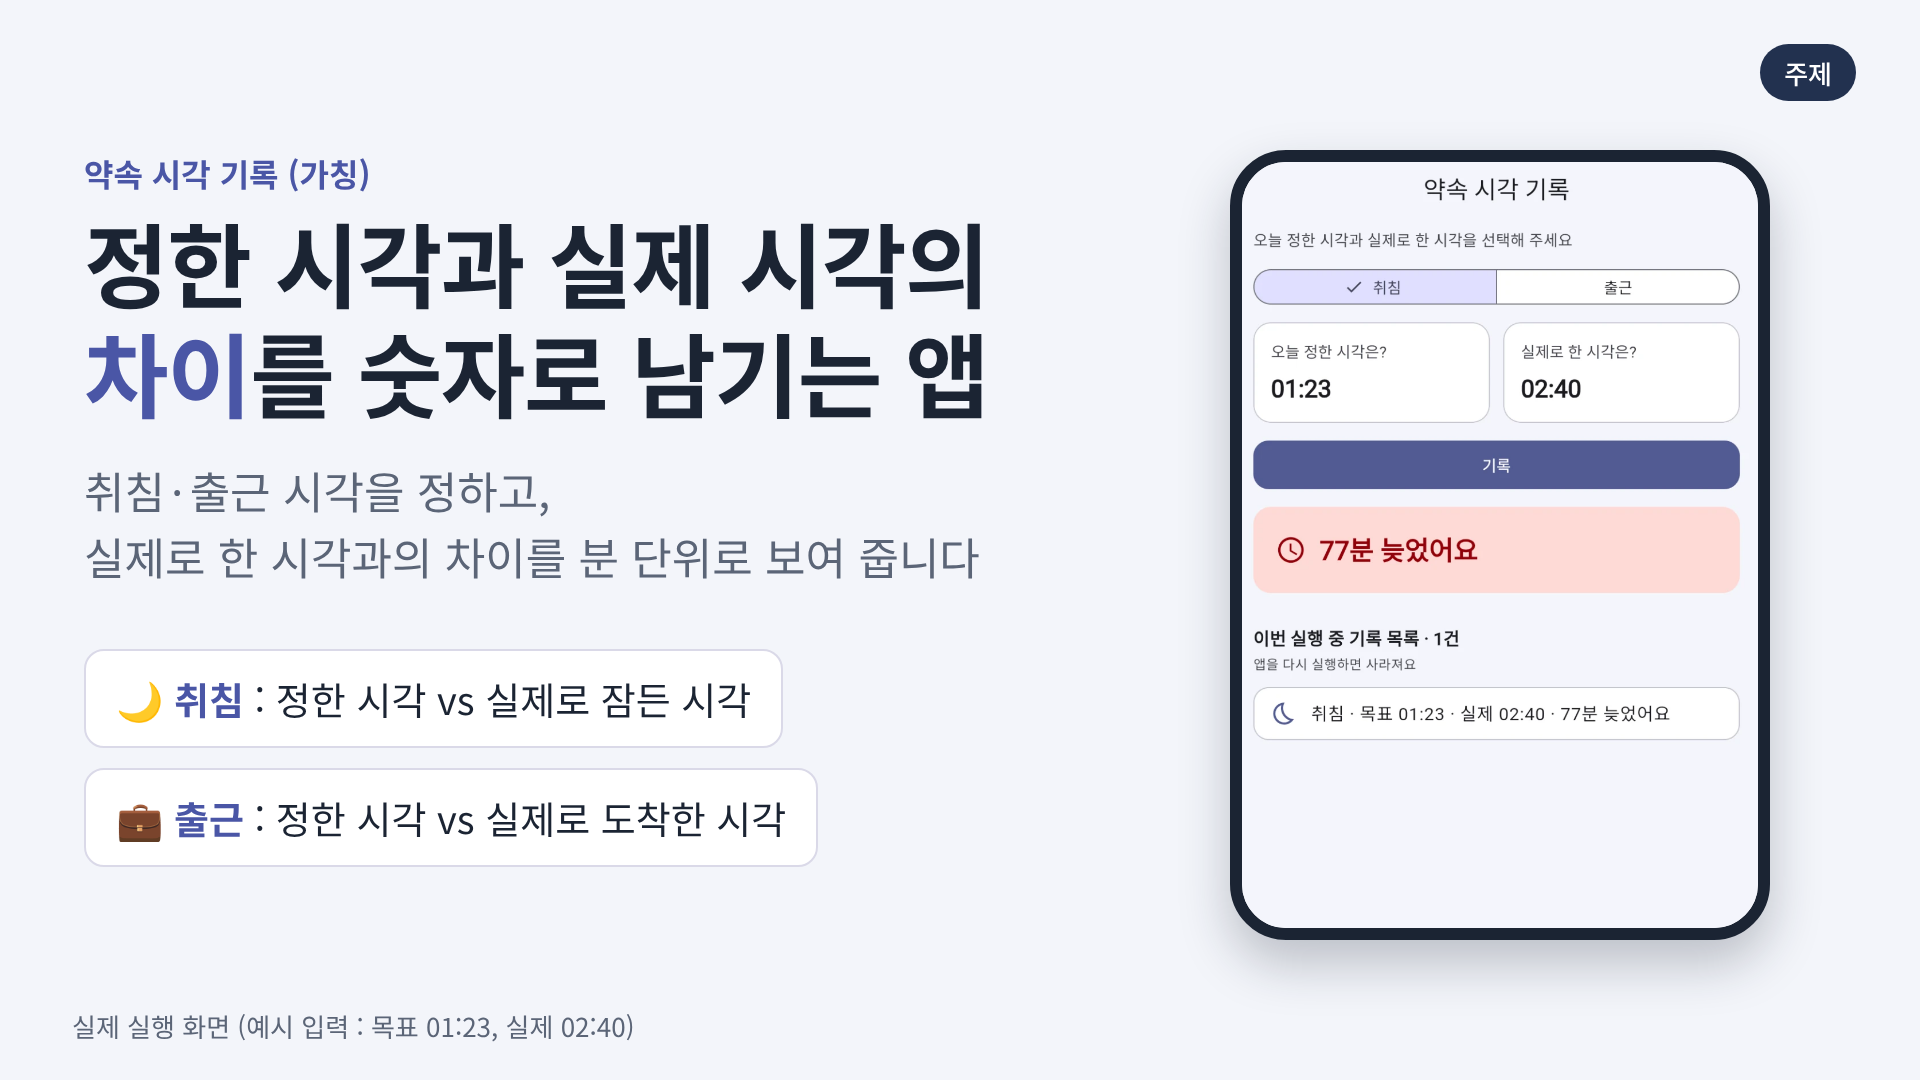
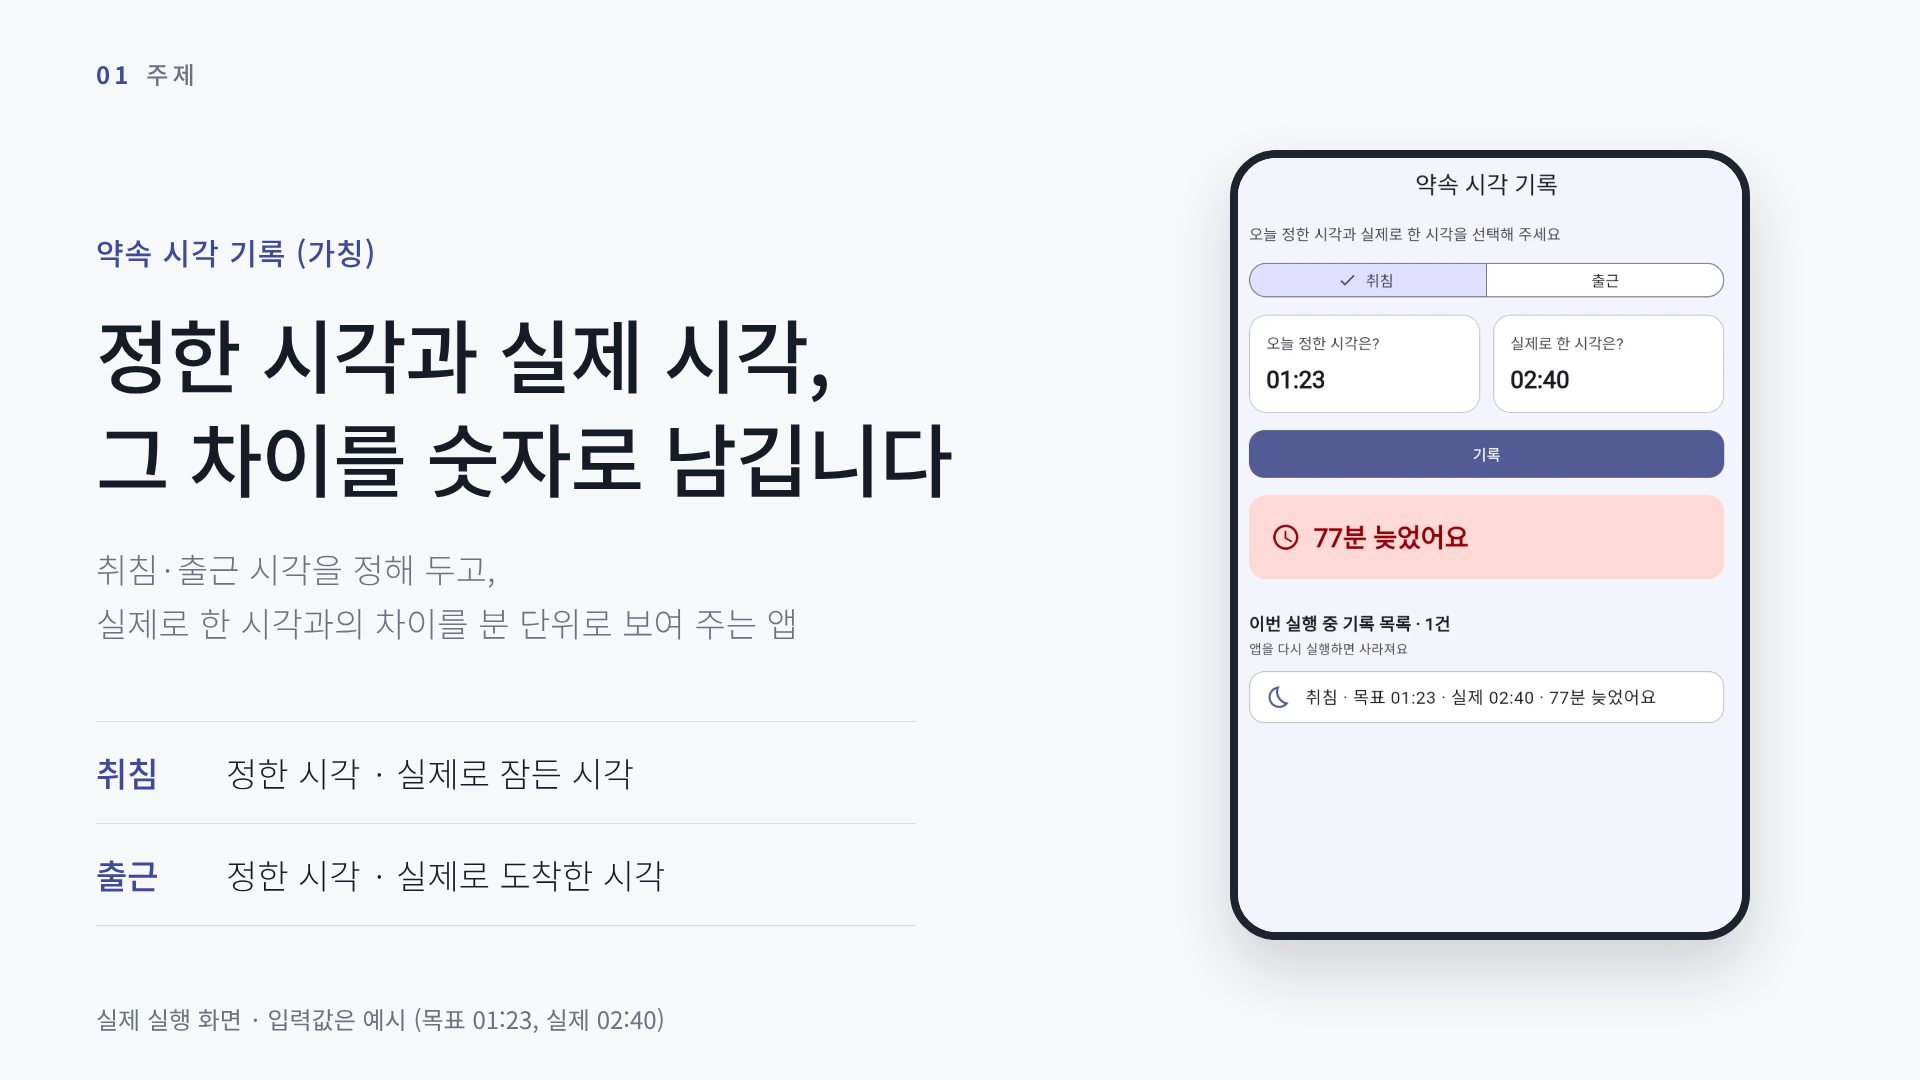
docs: 중간발표 장표 디자인을 차분하게 수정
Claude-Session: https://claude.ai/code/session_01P1GBHLbgts9XqSkhaJYGHU

diff --git a/promise_time/docs/presentation/slide2.html b/promise_time/docs/presentation/slide2.html
@@ -1,32 +1,24 @@
-<!doctype html><html lang=ko><head><meta charset=utf-8><link rel=stylesheet href="file:///tmp/claude-0/-home-user-claude/07db6671-1695-5be9-8ff8-4806634fec40/scratchpad/slides/../fonts/package/400.css"><link rel=stylesheet href="file:///tmp/claude-0/-home-user-claude/07db6671-1695-5be9-8ff8-4806634fec40/scratchpad/slides/../fonts/package/500.css"><link rel=stylesheet href="file:///tmp/claude-0/-home-user-claude/07db6671-1695-5be9-8ff8-4806634fec40/scratchpad/slides/../fonts/package/700.css"><link rel=stylesheet href=common.css><style>
-.wrap{padding:70px 84px 0}
-h1{font-size:80px;line-height:1.25}h1 em{font-style:normal;color:var(--late)}
-.row{display:flex;gap:56px;margin-top:36px}
-.card{flex:1;background:#fff;border:2px solid var(--line);border-radius:32px;padding:44px 52px}
-.card .k{font-size:30px;color:var(--sub)}
-.card h2{font-size:54px;margin:8px 0 34px}
-.line{display:flex;align-items:center;gap:24px;font-size:44px;margin-bottom:22px}
-.lab{width:150px;color:var(--sub);font-size:32px}
-.t{background:#EEF1F8;border-radius:16px;padding:12px 28px;font-weight:700}
-.t.bad{background:var(--lateBg);color:var(--late)}
-.gap{font-size:40px;color:var(--late);font-weight:700;margin-top:10px}
-.bar{margin-top:40px;background:var(--navy);color:#fff;border-radius:24px;padding:22px 40px;font-size:46px;font-weight:700;text-align:center}
-.bar b{color:#FFB59E}
+<!doctype html><html lang=ko><head><meta charset=utf-8><link rel=stylesheet href="file:///tmp/claude-0/-home-user-claude/07db6671-1695-5be9-8ff8-4806634fec40/scratchpad/slides/../fonts/package/300.css"><link rel=stylesheet href="file:///tmp/claude-0/-home-user-claude/07db6671-1695-5be9-8ff8-4806634fec40/scratchpad/slides/../fonts/package/400.css"><link rel=stylesheet href="file:///tmp/claude-0/-home-user-claude/07db6671-1695-5be9-8ff8-4806634fec40/scratchpad/slides/../fonts/package/500.css"><link rel=stylesheet href="file:///tmp/claude-0/-home-user-claude/07db6671-1695-5be9-8ff8-4806634fec40/scratchpad/slides/../fonts/package/700.css"><link rel=stylesheet href=common.css><style>
+h1{position:absolute;left:96px;top:130px;font-size:68px}
+.cols{position:absolute;left:96px;right:96px;top:380px;display:flex}
+.c{flex:1;padding-right:70px}
+.c+.c{padding-left:90px;padding-right:0;border-left:1px solid var(--line)}
+.k{font-size:26px;letter-spacing:3px;color:var(--sub);font-weight:500}
+.n{font-size:150px;font-weight:300;letter-spacing:-6px;line-height:1.1;margin-top:16px}
+.n small{font-size:60px;letter-spacing:0;margin-left:8px;color:var(--sub)}
+.d{font-size:38px;font-weight:500;margin-top:10px}
+.e{font-size:30px;color:var(--sub);margin-top:14px;font-weight:300;line-height:1.5}
+.conc{position:absolute;left:96px;right:96px;bottom:130px;border-top:1px solid var(--line);padding-top:34px;font-size:40px;font-weight:500}
+.conc em{font-style:normal;color:var(--red)}
 </style></head><body>
-<div class=tag>문제</div>
-<div class=wrap>
- <h1>알람은 있는데,<br>얼마나 <em>어긋나는지</em>는 모릅니다</h1>
- <div class=row>
-  <div class=card><div class=k>상황 ① 밤</div><h2>🌙 늦게 잡니다</h2>
-   <div class=line><span class=lab>하루 끝</span><span class=t>보상심리로 폰을 계속 봄</span></div>
-   <div class=line><span class=lab>실제</span><span class="t bad">2~3시 넘어서 취침</span></div>
-   <div class=gap>→ 목표 수면 7~8시간이 줄어듭니다</div></div>
-  <div class=card><div class=k>상황 ② 주말 알바</div><h2>💼 매번 조금씩 늦습니다</h2>
-   <div class=line><span class=lab>목표</span><span class=t>17:00 출근</span></div>
-   <div class=line><span class=lab>실제</span><span class="t bad">2~3분 지각이 습관</span></div>
-   <div class=gap>→ 16:25 알람이 있어도 반복됩니다</div></div>
- </div>
- <div class=bar>기록이 없어서, 느낌으로만 알고 <b>숫자로는 모릅니다</b></div>
+<div class=sec><b>02</b>문제</div>
+<h1>알람은 있지만,<br>얼마나 어긋나는지는 남지 않습니다</h1>
+<div class=cols>
+ <div class=c><div class=k>밤 · 취침</div><div class=n>2~3<small>시</small></div>
+  <div class=d>넘어서 자는 날이 많습니다</div><div class=e>하루를 끝낸 보상심리로 폰을 계속 보게 됩니다</div></div>
+ <div class=c><div class=k>주말 알바 · 출근 17:00</div><div class=n>2~3<small>분</small></div>
+  <div class=d>지각이 습관이 되었습니다</div><div class=e>16:25 기상 알람을 맞춰도 반복됩니다</div></div>
 </div>
-<div class=foot>근거: 본인 경험 (다른 사용자 조사는 하지 않음)</div>
+<div class=conc>기록이 없어서 <em>느낌으로만</em> 알 수 있었습니다</div>
+<div class=foot>근거: 본인 경험 · 다른 사용자 조사는 하지 않음</div>
 </body></html>

diff --git a/promise_time/docs/presentation/slide1.html b/promise_time/docs/presentation/slide1.html
@@ -1,23 +1,25 @@
-<!doctype html><html lang=ko><head><meta charset=utf-8><link rel=stylesheet href="file:///tmp/claude-0/-home-user-claude/07db6671-1695-5be9-8ff8-4806634fec40/scratchpad/slides/../fonts/package/400.css"><link rel=stylesheet href="file:///tmp/claude-0/-home-user-claude/07db6671-1695-5be9-8ff8-4806634fec40/scratchpad/slides/../fonts/package/500.css"><link rel=stylesheet href="file:///tmp/claude-0/-home-user-claude/07db6671-1695-5be9-8ff8-4806634fec40/scratchpad/slides/../fonts/package/700.css"><link rel=stylesheet href=common.css><style>
-.l{position:absolute;left:84px;top:150px;width:1000px}
-h1{font-size:92px;line-height:1.2}h1 em{font-style:normal;color:var(--indigo)}
-.sub{font-size:44px;color:var(--sub);margin-top:30px;line-height:1.5}
-.chips{margin-top:60px;display:flex;flex-direction:column;gap:20px}
-.chip{background:#fff;border:2px solid var(--line);border-radius:20px;padding:20px 30px;font-size:38px;width:fit-content}
-.chip b{color:var(--indigo)}
-.r{position:absolute;right:150px;top:70px;width:520px}
-.shot{position:absolute;right:150px;top:70px;width:540px}
-.phone{height:790px}.shot{top:150px}</style></head><body>
-<div class=tag>주제</div>
+<!doctype html><html lang=ko><head><meta charset=utf-8><link rel=stylesheet href="file:///tmp/claude-0/-home-user-claude/07db6671-1695-5be9-8ff8-4806634fec40/scratchpad/slides/../fonts/package/300.css"><link rel=stylesheet href="file:///tmp/claude-0/-home-user-claude/07db6671-1695-5be9-8ff8-4806634fec40/scratchpad/slides/../fonts/package/400.css"><link rel=stylesheet href="file:///tmp/claude-0/-home-user-claude/07db6671-1695-5be9-8ff8-4806634fec40/scratchpad/slides/../fonts/package/500.css"><link rel=stylesheet href="file:///tmp/claude-0/-home-user-claude/07db6671-1695-5be9-8ff8-4806634fec40/scratchpad/slides/../fonts/package/700.css"><link rel=stylesheet href=common.css><style>
+.l{position:absolute;left:96px;top:230px;width:1000px}
+.name{font-size:30px;color:var(--accent);font-weight:500;letter-spacing:1px}
+h1{font-size:80px;margin-top:26px}
+.sub{font-size:34px;color:var(--sub);margin-top:34px;line-height:1.6;font-weight:300}
+.list{margin-top:70px;width:820px;border-top:1px solid var(--line)}
+.it{display:flex;padding:26px 0;border-bottom:1px solid var(--line);font-size:34px;align-items:baseline}
+.it b{width:130px;font-weight:500;color:var(--accent)}
+.it span{color:var(--ink);font-weight:300}
+.shot{position:absolute;right:170px;top:150px;width:520px}
+.phone{height:790px}
+</style></head><body>
+<div class=sec><b>01</b>주제</div>
 <div class=l>
- <div class=brand>약속 시각 기록 (가칭)</div>
- <h1>정한 시각과 실제 시각의<br><em>차이</em>를 숫자로 남기는 앱</h1>
- <div class=sub>취침·출근 시각을 정하고,<br>실제로 한 시각과의 차이를 분 단위로 보여 줍니다</div>
- <div class=chips>
-  <div class=chip>🌙 <b>취침</b> : 정한 시각 vs 실제로 잠든 시각</div>
-  <div class=chip>💼 <b>출근</b> : 정한 시각 vs 실제로 도착한 시각</div>
+ <div class=name>약속 시각 기록 (가칭)</div>
+ <h1>정한 시각과 실제 시각,<br>그 차이를 숫자로 남깁니다</h1>
+ <div class=sub>취침·출근 시각을 정해 두고,<br>실제로 한 시각과의 차이를 분 단위로 보여 주는 앱</div>
+ <div class=list>
+  <div class=it><b>취침</b><span>정한 시각  ·  실제로 잠든 시각</span></div>
+  <div class=it><b>출근</b><span>정한 시각  ·  실제로 도착한 시각</span></div>
  </div>
 </div>
 <div class=shot><div class=phone><img src=crops/result.png></div></div>
-<div class=foot>실제 실행 화면 (예시 입력 : 목표 01:23, 실제 02:40)</div>
+<div class=foot>실제 실행 화면 · 입력값은 예시 (목표 01:23, 실제 02:40)</div>
 </body></html>

diff --git a/promise_time/docs/presentation/slide3.html b/promise_time/docs/presentation/slide3.html
@@ -1,16 +1,19 @@
-<!doctype html><html lang=ko><head><meta charset=utf-8><link rel=stylesheet href="file:///tmp/claude-0/-home-user-claude/07db6671-1695-5be9-8ff8-4806634fec40/scratchpad/slides/../fonts/package/400.css"><link rel=stylesheet href="file:///tmp/claude-0/-home-user-claude/07db6671-1695-5be9-8ff8-4806634fec40/scratchpad/slides/../fonts/package/500.css"><link rel=stylesheet href="file:///tmp/claude-0/-home-user-claude/07db6671-1695-5be9-8ff8-4806634fec40/scratchpad/slides/../fonts/package/700.css"><link rel=stylesheet href=common.css><style>
-.top{position:absolute;top:40px;left:84px;font-size:64px;font-weight:700;letter-spacing:-1px}
-.top em{font-style:normal;color:var(--indigo)}
-.cols{position:absolute;top:150px;left:0;right:0;display:flex;justify-content:center;gap:90px}
-.col{width:470px}.cols{top:140px}
-.arrow{align-self:center;font-size:64px;color:var(--indigo);margin-top:260px}
+<!doctype html><html lang=ko><head><meta charset=utf-8><link rel=stylesheet href="file:///tmp/claude-0/-home-user-claude/07db6671-1695-5be9-8ff8-4806634fec40/scratchpad/slides/../fonts/package/300.css"><link rel=stylesheet href="file:///tmp/claude-0/-home-user-claude/07db6671-1695-5be9-8ff8-4806634fec40/scratchpad/slides/../fonts/package/400.css"><link rel=stylesheet href="file:///tmp/claude-0/-home-user-claude/07db6671-1695-5be9-8ff8-4806634fec40/scratchpad/slides/../fonts/package/500.css"><link rel=stylesheet href="file:///tmp/claude-0/-home-user-claude/07db6671-1695-5be9-8ff8-4806634fec40/scratchpad/slides/../fonts/package/700.css"><link rel=stylesheet href=common.css><style>
+h1{position:absolute;left:96px;top:104px;font-size:54px;white-space:nowrap}
+h1 em{font-style:normal;color:var(--accent)}
+.cols{position:absolute;top:215px;left:0;right:0;display:flex;justify-content:center;gap:100px}
+.col{width:460px}
+.cap{display:flex;align-items:baseline;gap:14px;margin-bottom:18px;height:44px}
+.cap b{font-size:26px;color:var(--accent);font-weight:500;letter-spacing:2px}
+.cap span{font-size:34px;font-weight:500}
+.cap small{font-size:24px;color:var(--sub);font-weight:300;margin-left:6px}
 </style></head><body>
-<div class=tag>핵심가치</div>
-<div class=top>느낌이 아니라 <em>숫자</em>로 확인하고, 기록으로 쌓입니다</div>
+<div class=sec><b>03</b>핵심가치</div>
+<h1>느낌이 아니라 <em>숫자</em>로 확인하고, 기록으로 남깁니다</h1>
 <div class=cols>
- <div class=col><div class=cap>① 시각 두 개 선택<small>정한 시각 · 실제 시각</small></div><div class=phone><img src=crops/first.png></div></div>
- <div class=col><div class=cap>② 차이를 바로 확인<small>"77분 늦었어요"</small></div><div class=phone><img src=crops/result.png></div></div>
- <div class=col><div class=cap>③ 기록이 쌓임<small>최신 기록이 위, 한 줄 요약</small></div><div class=phone><img src=crops/list.png></div></div>
+ <div class=col><div class=cap><b>01</b><span>시각 두 개 선택</span></div><div class=phone><img src=crops/first.png></div></div>
+ <div class=col><div class=cap><b>02</b><span>차이를 바로 확인</span></div><div class=phone><img src=crops/result.png></div></div>
+ <div class=col><div class=cap><b>03</b><span>기록이 쌓임</span></div><div class=phone><img src=crops/list.png></div></div>
 </div>
-<div class=foot>실제 실행 화면 (예시 입력) · 현재는 앱을 다시 실행하면 기록이 사라집니다</div>
+<div class=foot>실제 실행 화면 · 입력값은 예시 · 현재는 앱을 다시 실행하면 기록이 사라집니다</div>
 </body></html>

diff --git a/promise_time/docs/presentation/common.css b/promise_time/docs/presentation/common.css
@@ -1,11 +1,9 @@
-:root{--bg:#F3F5FA;--ink:#1B2433;--sub:#5B6577;--line:#DAD9E8;--indigo:#4A56A6;--navy:#22314F;--late:#9B1C1C;--lateBg:#FCD9D5;--soft:#E1E0FF;--card:#fff}
+:root{--bg:#F7F8FA;--ink:#161B26;--sub:#6B7280;--line:#D9DCE3;--accent:#3F4B9A;--red:#B3261E}
 *{box-sizing:border-box;margin:0;padding:0}
 body{width:1920px;height:1080px;background:var(--bg);color:var(--ink);font-family:'Noto Sans KR',sans-serif;font-weight:400;overflow:hidden;position:relative}
-.tag{position:absolute;top:44px;right:64px;background:var(--navy);color:#fff;padding:10px 24px;border-radius:999px;font-size:26px;font-weight:500}
-.foot{position:absolute;left:72px;bottom:36px;font-size:26px;color:var(--sub)}
-h1{font-weight:700;letter-spacing:-1.5px}
-.brand{color:var(--indigo);font-weight:700;font-size:32px;margin-bottom:10px}
-.phone{background:#fff;border:12px solid #1B2433;border-radius:56px;overflow:hidden;box-shadow:0 24px 50px rgba(27,36,51,.25)}
+.sec{position:absolute;top:56px;left:96px;font-size:24px;letter-spacing:4px;color:var(--sub);font-weight:500}
+.sec b{color:var(--accent);margin-right:14px}
+.foot{position:absolute;left:96px;bottom:44px;font-size:24px;color:var(--sub)}
+h1{font-weight:500;letter-spacing:-1.5px;line-height:1.3}
+.phone{background:#fff;border:8px solid #1E2330;border-radius:46px;overflow:hidden;box-shadow:0 30px 60px rgba(22,27,38,.16)}
 .phone img{display:block;width:100%}
-.cap{font-size:36px;font-weight:700;text-align:center;margin-bottom:22px}
-.cap small{display:block;font-size:26px;font-weight:400;color:var(--sub);margin-top:6px}
